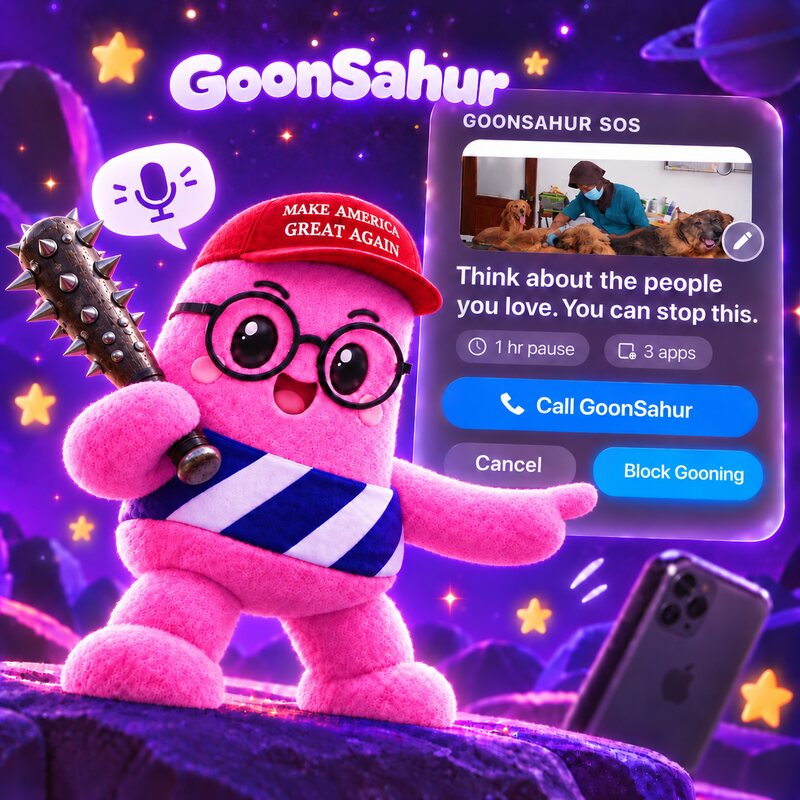
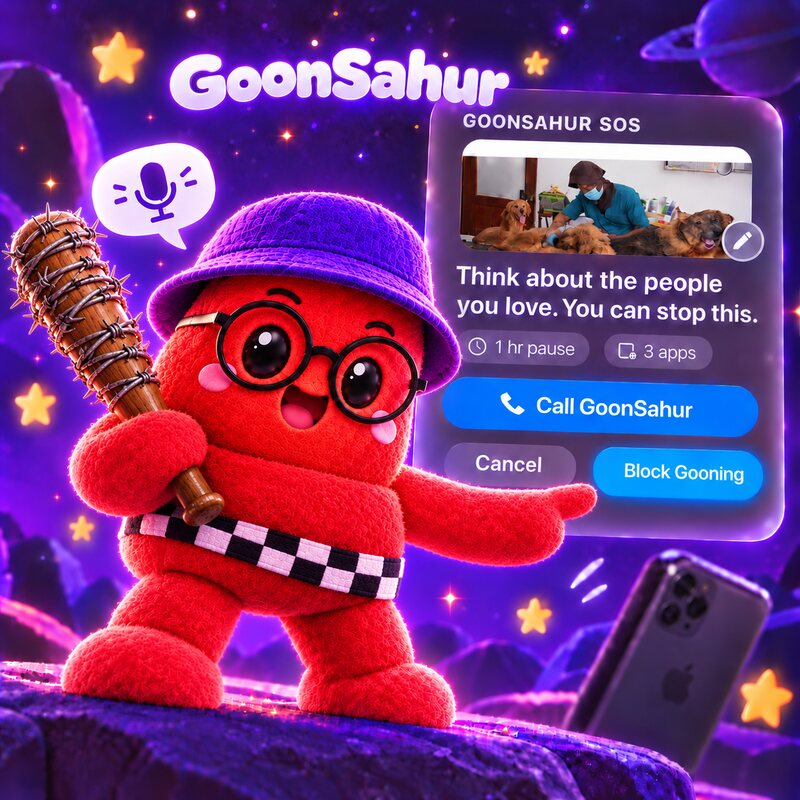
Rebrand to red mascot, purple bucket hat, barbed-wire bat, metallic wordmark, fiery nebula aesthetic

Changed region(s): [[0.0, 0.2188, 0.75, 0.9375], [0.625, 0.9062, 0.6562, 0.9375]]

diff --git a/index.html b/index.html
@@ -35,8 +35,9 @@ body{font-family:-apple-system,BlinkMacSystemFont,"Segoe UI",Roboto,Helvetica,Ar
 .bar{display:flex;align-items:center;gap:12px;padding:18px 20px;position:sticky;top:0;z-index:10;background:rgba(18,3,43,.55);backdrop-filter:blur(14px);-webkit-backdrop-filter:blur(14px);border-bottom:1px solid var(--line)}
 .bar img{width:44px;height:44px;border-radius:12px;border:1px solid var(--line);display:block}
 .bar b{font-family:"Fredoka","Quicksand",-apple-system,BlinkMacSystemFont,"Segoe UI",sans-serif;font-size:23px;font-weight:600;letter-spacing:-.2px}
+.wmark{background:linear-gradient(180deg,#fff 0%,#d9d9e6 45%,#8f93a6 55%,#e8e8f2 100%);-webkit-background-clip:text;background-clip:text;-webkit-text-fill-color:transparent;color:#fff}
 .bar span{font-size:11px;font-weight:600;letter-spacing:1.2px;text-transform:uppercase;color:var(--muted);display:block;margin-top:-3px}
-.dlbtn{margin-left:auto;display:flex;align-items:center;gap:6px;background:#f08fb2;color:#2a0a18;font-size:14px;font-weight:800;padding:9px 16px;border-radius:999px;text-decoration:none;box-shadow:0 6px 20px rgba(240,143,178,.4);-webkit-tap-highlight-color:transparent}
+.dlbtn{margin-left:auto;display:flex;align-items:center;gap:6px;background:linear-gradient(135deg,#ff8a3d,#e6482e);color:#fff;font-size:14px;font-weight:800;padding:9px 16px;border-radius:999px;text-decoration:none;box-shadow:0 6px 20px rgba(230,72,46,.45);-webkit-tap-highlight-color:transparent}
 .dlbtn:active{transform:scale(.97)}
 .card{background:var(--glass);border:1px solid var(--line);border-radius:26px;padding:22px 18px;margin:26px 0;backdrop-filter:blur(18px) saturate(1.4);-webkit-backdrop-filter:blur(18px) saturate(1.4);box-shadow:0 18px 50px rgba(10,0,30,.45);transform-origin:50% 100%;
  animation:fold .9s both cubic-bezier(.2,.7,.2,1);animation-timeline:view();animation-range:entry 5% cover 42%}
@@ -138,7 +139,7 @@ footer{padding:26px 0 44px;text-align:center;font-size:12px;color:rgba(244,240,2
 <div class="sky"></div>
 <header class="bar">
 <img src="logo.jpg" width="44" height="44" alt="GoonSahur mascot logo">
-<div><b>Goon<span style="color:#f08fb2">Sahur</span></b><span>iOS beta</span></div>
+<div><b class="wmark">GoonSahur</b><span>iOS beta</span></div>
 <a class="dlbtn" href="https://testflight.apple.com/join/MPYwAhQb">&#8595; Download</a>
 </header>
 <main class="wrap">
